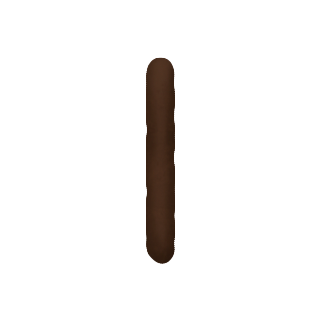
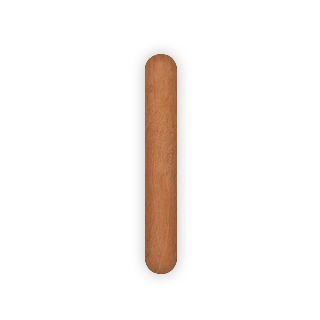
Magnalium V0.055
Research Grimoire system fully working, new sprite for the Wood Handle and for the UI in the Grimoire.

Changed region(s): [[0.4375, 0.1562, 0.5625, 0.875]]

diff --git a/src/main/GamePanel.java b/src/main/GamePanel.java
@@ -13,6 +13,7 @@ import utils.*;
 import java.awt.AlphaComposite;
 import java.awt.Color;
 import java.awt.Font;
+import java.awt.FontMetrics;
 import java.awt.Graphics;
 import java.awt.Graphics2D;
 import java.awt.Toolkit;
@@ -54,7 +55,7 @@ public class GamePanel extends JPanel {
 	
 	public final static double gScale = (double)Toolkit.getDefaultToolkit().getScreenSize().height/1080;
 	
-	private BufferedImage[] sprites = new BufferedImage[12], vellum = new BufferedImage[4], grimoireIcon = new BufferedImage[2];
+	private BufferedImage[] sprites = new BufferedImage[12], vellum = new BufferedImage[4], researchButton = new BufferedImage[4], grimoireIcon = new BufferedImage[2];
 	private BufferedImage 
 	WoodBg, UpperUI, forest, cave, Wood, Stone, manuscriptImg, grimoireImg, manuscriptOpenImg, grimoireOpenImg,
 	grimoireSlot;
@@ -117,6 +118,28 @@ public class GamePanel extends JPanel {
 			}
 			
 			grimoireIcon[i] = img;
+		}
+		
+		for(int i = 0; i<researchButton.length; i++)
+		{
+			is = getClass().getResourceAsStream("/ResearchButton" + i + ".png");
+			img = null;
+			
+			try {
+				img = ImageIO.read(is);
+				
+			} catch (IOException e) {
+				
+				e.printStackTrace();
+			} finally {
+				try {
+					is.close();
+				} catch(IOException e) {
+					e.printStackTrace();
+				}
+			}
+			
+			researchButton[i] = img;
 		}
 		
 		is = getClass().getResourceAsStream("/GrimoireItemSlot.png");
@@ -479,9 +502,6 @@ public class GamePanel extends JPanel {
 		
 		manuscript = new ElementsManuscript();
 		grimoire = new RecipesGrimoire();
-		
-		int[] a = {0,1,2,3};
-		Research.unlock(a);
 	}
 	
 	public static int getGzero()
@@ -1261,15 +1281,41 @@ public class GamePanel extends JPanel {
 			{
 				g.drawImage(grimoireOpenImg ,grimoire.getPos()[0]-grimoire.getWidth(), grimoire.getPos()[1], grimoire.getWidth()*2, grimoire.getHeight(), null);
 				
-				g.drawImage(grimoireSlot, grimoire.getPos()[0]+(int)(128*gScale), grimoire.getPos()[1]+(int)(43*gScale), (int)(320*gScale), (int)(320*gScale), null);
-				g.drawImage(grimoireSlot, grimoire.getPos()[0]+(int)(128*gScale)-grimoire.getWidth(), grimoire.getPos()[1]+(int)(43*gScale), (int)(320*gScale), (int)(320*gScale), null);
-			
-				g.drawImage(grimoireIcon[0+grimoire.getPage()], grimoire.getPos()[0]+(int)(128*gScale), grimoire.getPos()[1]+(int)(43*gScale), (int)(320*gScale), (int)(320*gScale), null);
-				g.drawImage(grimoireIcon[1+grimoire.getPage()], grimoire.getPos()[0]+(int)(128*gScale)-grimoire.getWidth(), grimoire.getPos()[1]+(int)(43*gScale), (int)(320*gScale), (int)(320*gScale), null);
-				
 				g.setColor(Color.white);
-				g.fillRect((int) (grimoire.getPos()[0]+192*gScale), (int) (grimoire.getPos()[1]+448*gScale), (int) (192*gScale), (int) (64*gScale));
-				g.fillRect((int) (grimoire.getPos()[0]+192*gScale-grimoire.getWidth()), (int) (grimoire.getPos()[1]+448*gScale), (int) (192*gScale), (int) (64*gScale));
+				
+				Font font = new Font("/SimpleLife.ttf", Font.BOLD, (int)(29*gScale));
+				FontMetrics metrics = g.getFontMetrics(font);
+				g.setFont(font);
+				
+				if(Research.getUnlocked().size() > grimoire.getPage())
+				{
+					g.drawImage(grimoireSlot, grimoire.getPos()[0]+(int)(128*gScale)-grimoire.getWidth(), grimoire.getPos()[1]+(int)(43*gScale), (int)(320*gScale), (int)(320*gScale), null);
+					
+					if(grimoireIcon.length > grimoire.getPage())
+						g.drawImage(grimoireIcon[grimoire.getPage()], grimoire.getPos()[0]+(int)(128*gScale)-grimoire.getWidth(), grimoire.getPos()[1]+(int)(43*gScale), (int)(320*gScale), (int)(320*gScale), null);
+
+				    int x = (int) (grimoire.getPos()[0]-grimoire.getWidth()+153*gScale + (270*gScale - metrics.stringWidth(Research.getName(grimoire.getPage()))) / 2);
+				    int y = (int) (grimoire.getPos()[1]+379*gScale + ((29 - metrics.getHeight()) / 2) + metrics.getAscent());
+				    
+				    g.drawString(Research.getName(grimoire.getPage()), x, y);
+					
+				    g.drawImage(researchButton[grimoire.getPage()%4], (int) (grimoire.getPos()[0]-grimoire.getWidth()+192*gScale), (int) (grimoire.getPos()[1]+448*gScale), (int) (192*gScale), (int) (64*gScale), null);
+				}
+				
+				if(Research.getUnlocked().size() > grimoire.getPage()+1)
+				{
+					g.drawImage(grimoireSlot, grimoire.getPos()[0]+(int)(128*gScale), grimoire.getPos()[1]+(int)(43*gScale), (int)(320*gScale), (int)(320*gScale), null);
+					
+					if(grimoireIcon.length > grimoire.getPage()+1)
+						g.drawImage(grimoireIcon[grimoire.getPage()+1], grimoire.getPos()[0]+(int)(128*gScale), grimoire.getPos()[1]+(int)(43*gScale), (int)(320*gScale), (int)(320*gScale), null);
+					
+					int x = (int) (grimoire.getPos()[0]+153*gScale + (270*gScale - metrics.stringWidth(Research.getName(grimoire.getPage()+1))) / 2);
+				    int y = (int) (grimoire.getPos()[1]+379*gScale + ((29*gScale - metrics.getHeight()) / 2) + metrics.getAscent());
+				    
+				    g.drawString(Research.getName(grimoire.getPage()+1), x, y);
+					
+					g.drawImage(researchButton[(grimoire.getPage()+1)%4], (int) (grimoire.getPos()[0]+192*gScale), (int) (grimoire.getPos()[1]+448*gScale), (int) (192*gScale), (int) (64*gScale), null);
+				}
 			}
 			
 			DrawUpperBg(g);

diff --git a/src/store/Store.java b/src/store/Store.java
@@ -1,6 +1,7 @@
 package store;
 
 import main.GamePanel;
+import research.Research;
 
 public class Store 
 {
@@ -65,7 +66,8 @@ public class Store
 	{
 		switch(tab)
 		{
-		case 1:
+		case 1: // Axes
+			
 			if(buttonsT1[0].getBought())
 			{
 				buttonsT1[1].unlock();
@@ -85,7 +87,8 @@ public class Store
 					buttonsT1[5].unlock();
 				}
 			}
-		case 2:
+		case 2: // Pickaxes
+			
 			if(buttonsT2[0].getBought())
 			{
 				buttonsT2[1].unlock();
@@ -105,9 +108,13 @@ public class Store
 					buttonsT2[5].unlock();
 				}
 			}
-		case 3:
+		case 3: // Swords
+			
 			if(buttonsT3[0].getBought())
 			{
+				int[] unlock = {0,1,2};
+				Research.unlock(unlock);
+				
 				buttonsT3[1].unlock();
 				buttonsT3[4].unlock();
 				

diff --git a/src/research/Research.java b/src/research/Research.java
@@ -6,6 +6,17 @@ public class Research {
 	
 	private static ArrayList<Integer> available = new ArrayList<Integer>();
 	
+	private static String[] researchNames =
+	{
+			"Wood Handle",
+			
+			"Wood Blade",
+			
+			"Wood Guard",
+			
+			"Zephyr's Core"
+	};
+	
 	private static final int[][] energizedSlots = 
 	{
 			{0,0},
@@ -67,6 +78,11 @@ public class Research {
 	public static int[] getEnergized(int id)
 	{
 		return energizedSlots[id];
+	}
+	
+	public static String getName(int id)
+	{
+		return researchNames[id];
 	}
 	
 	public static void unlock(int[] a)

diff --git a/src/books/RecipesGrimoire.java b/src/books/RecipesGrimoire.java
@@ -7,6 +7,11 @@ public class RecipesGrimoire extends Book {
 	
 	int page = 0;
 	
+	private String[] itemNames = 
+	{
+			"Wood Handle"
+	};
+	
 	public RecipesGrimoire()
 	{
 		super(1560,432);
@@ -31,6 +36,11 @@ public class RecipesGrimoire extends Book {
 		{
 			page = 0;
 		}
+	}
+	
+	public String getName(int b)
+	{
+		return itemNames[page+b];
 	}
 	
 	public void openBook()
